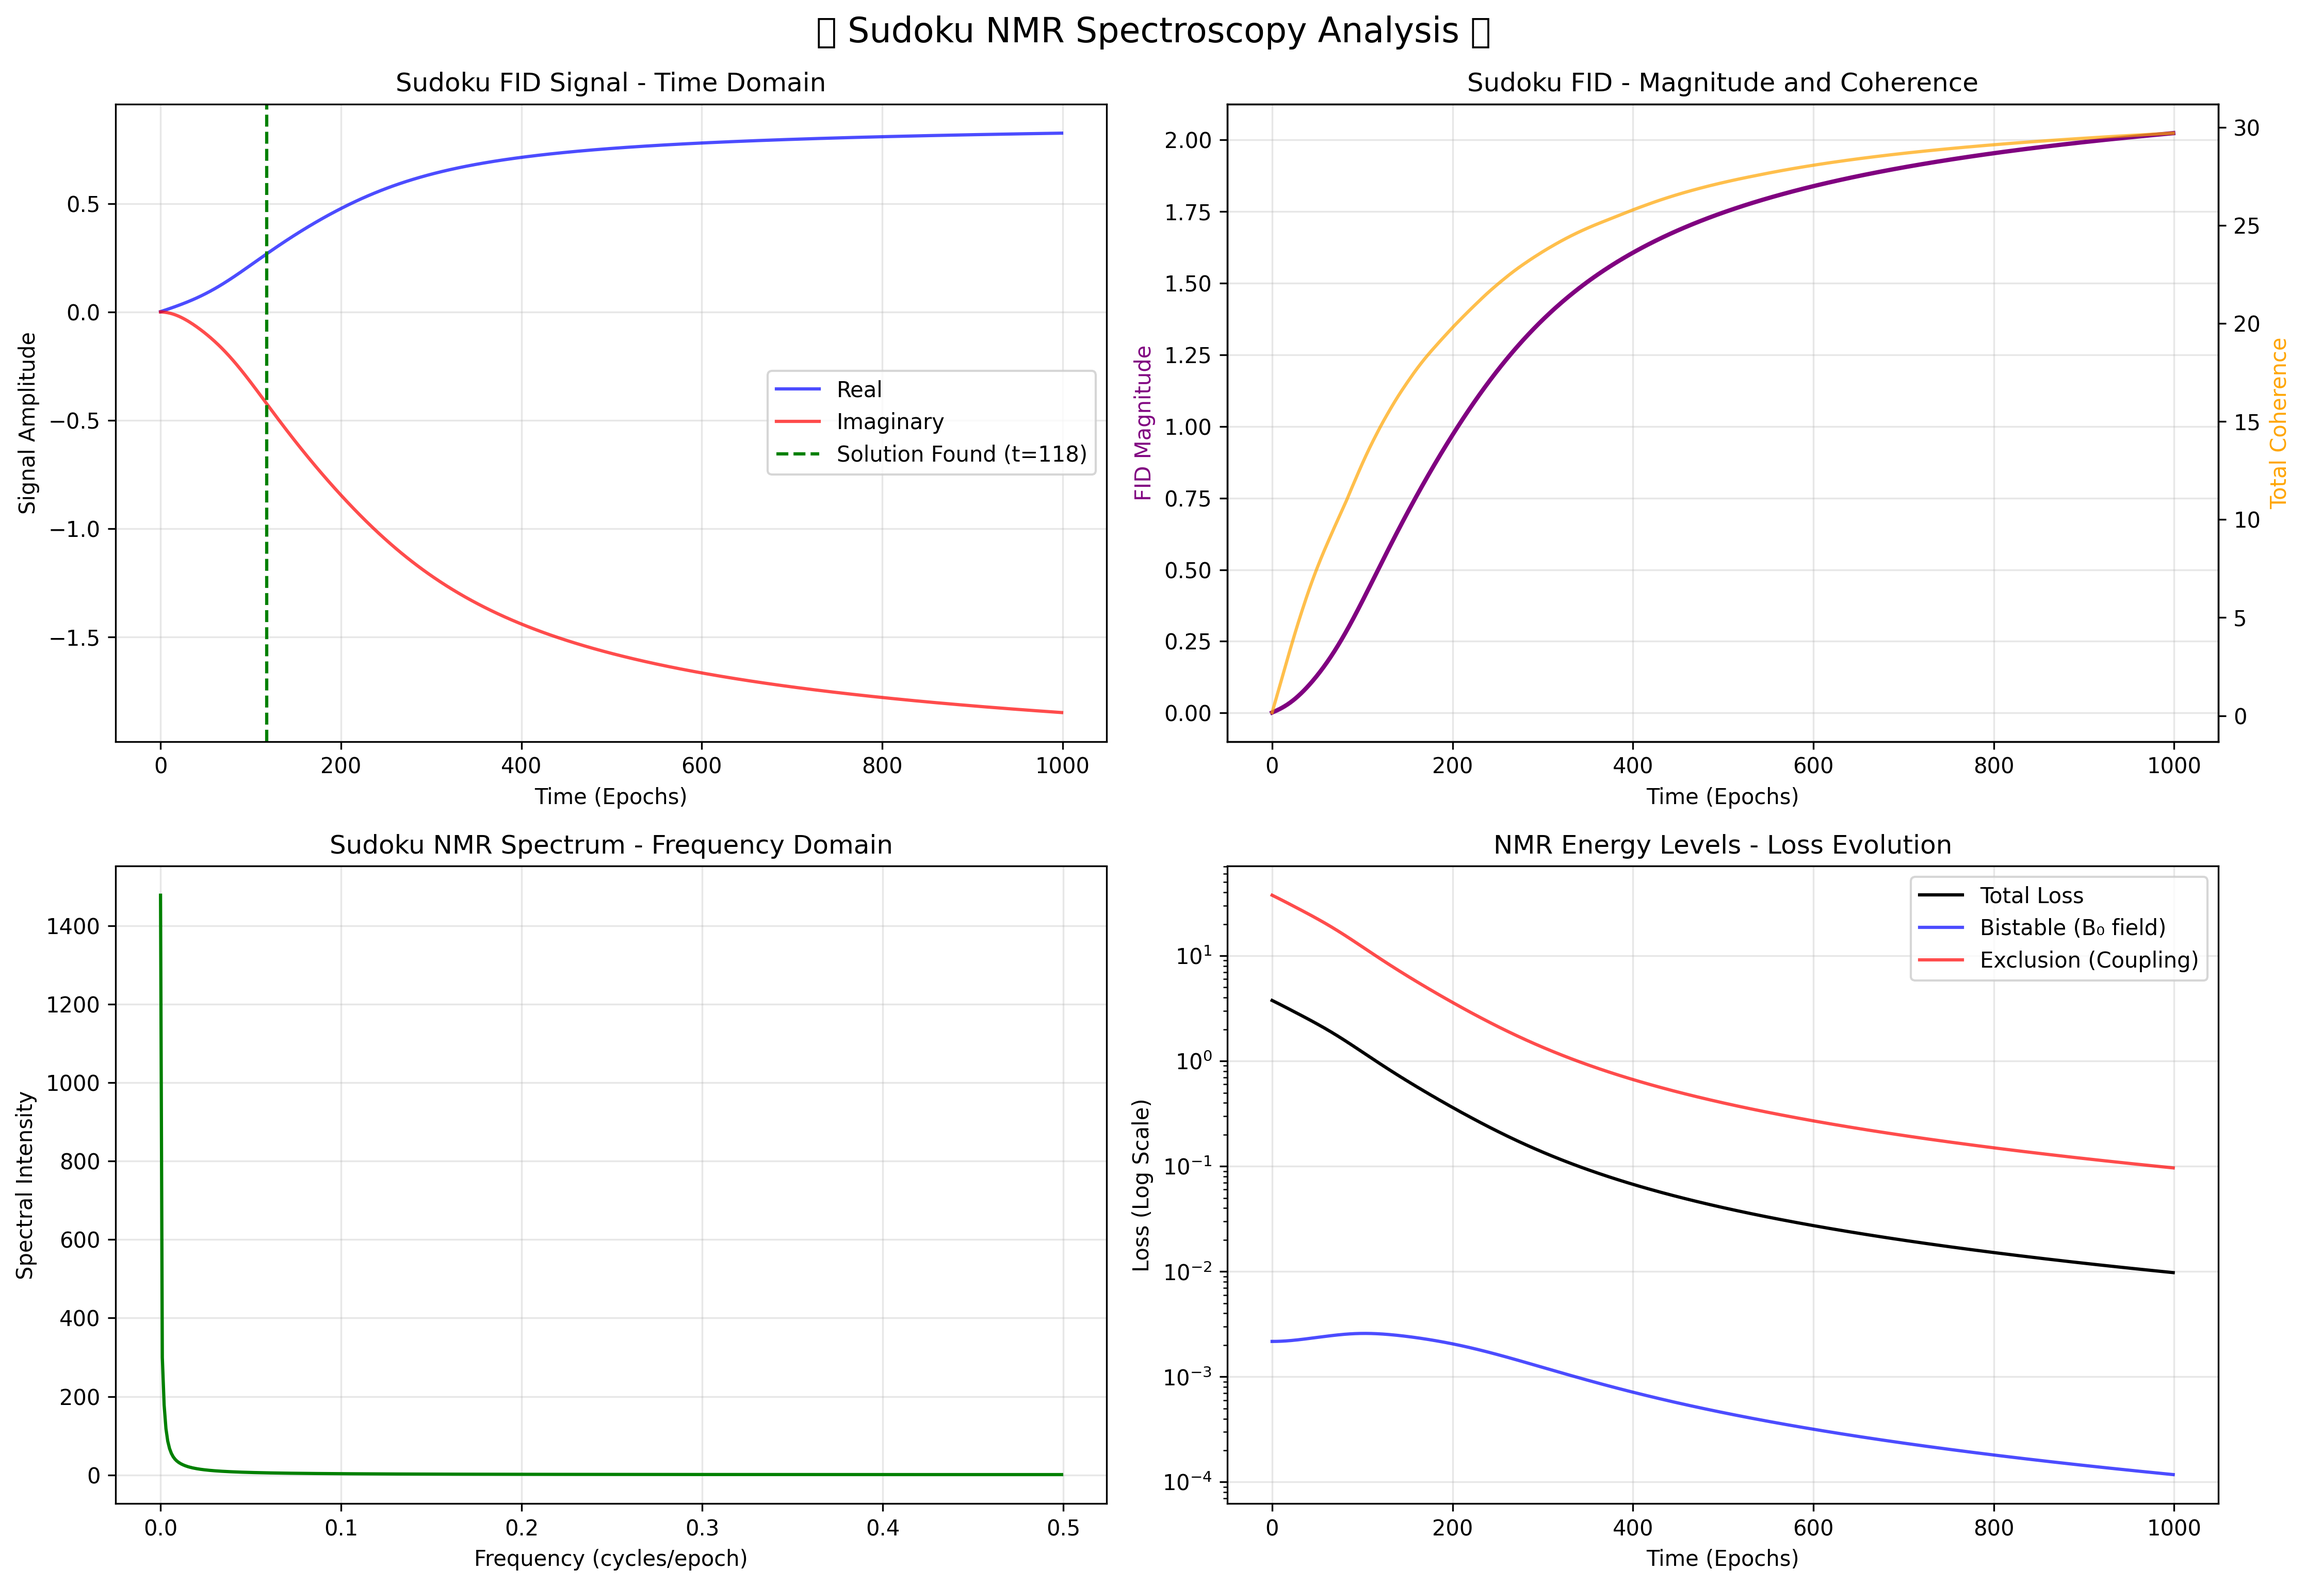
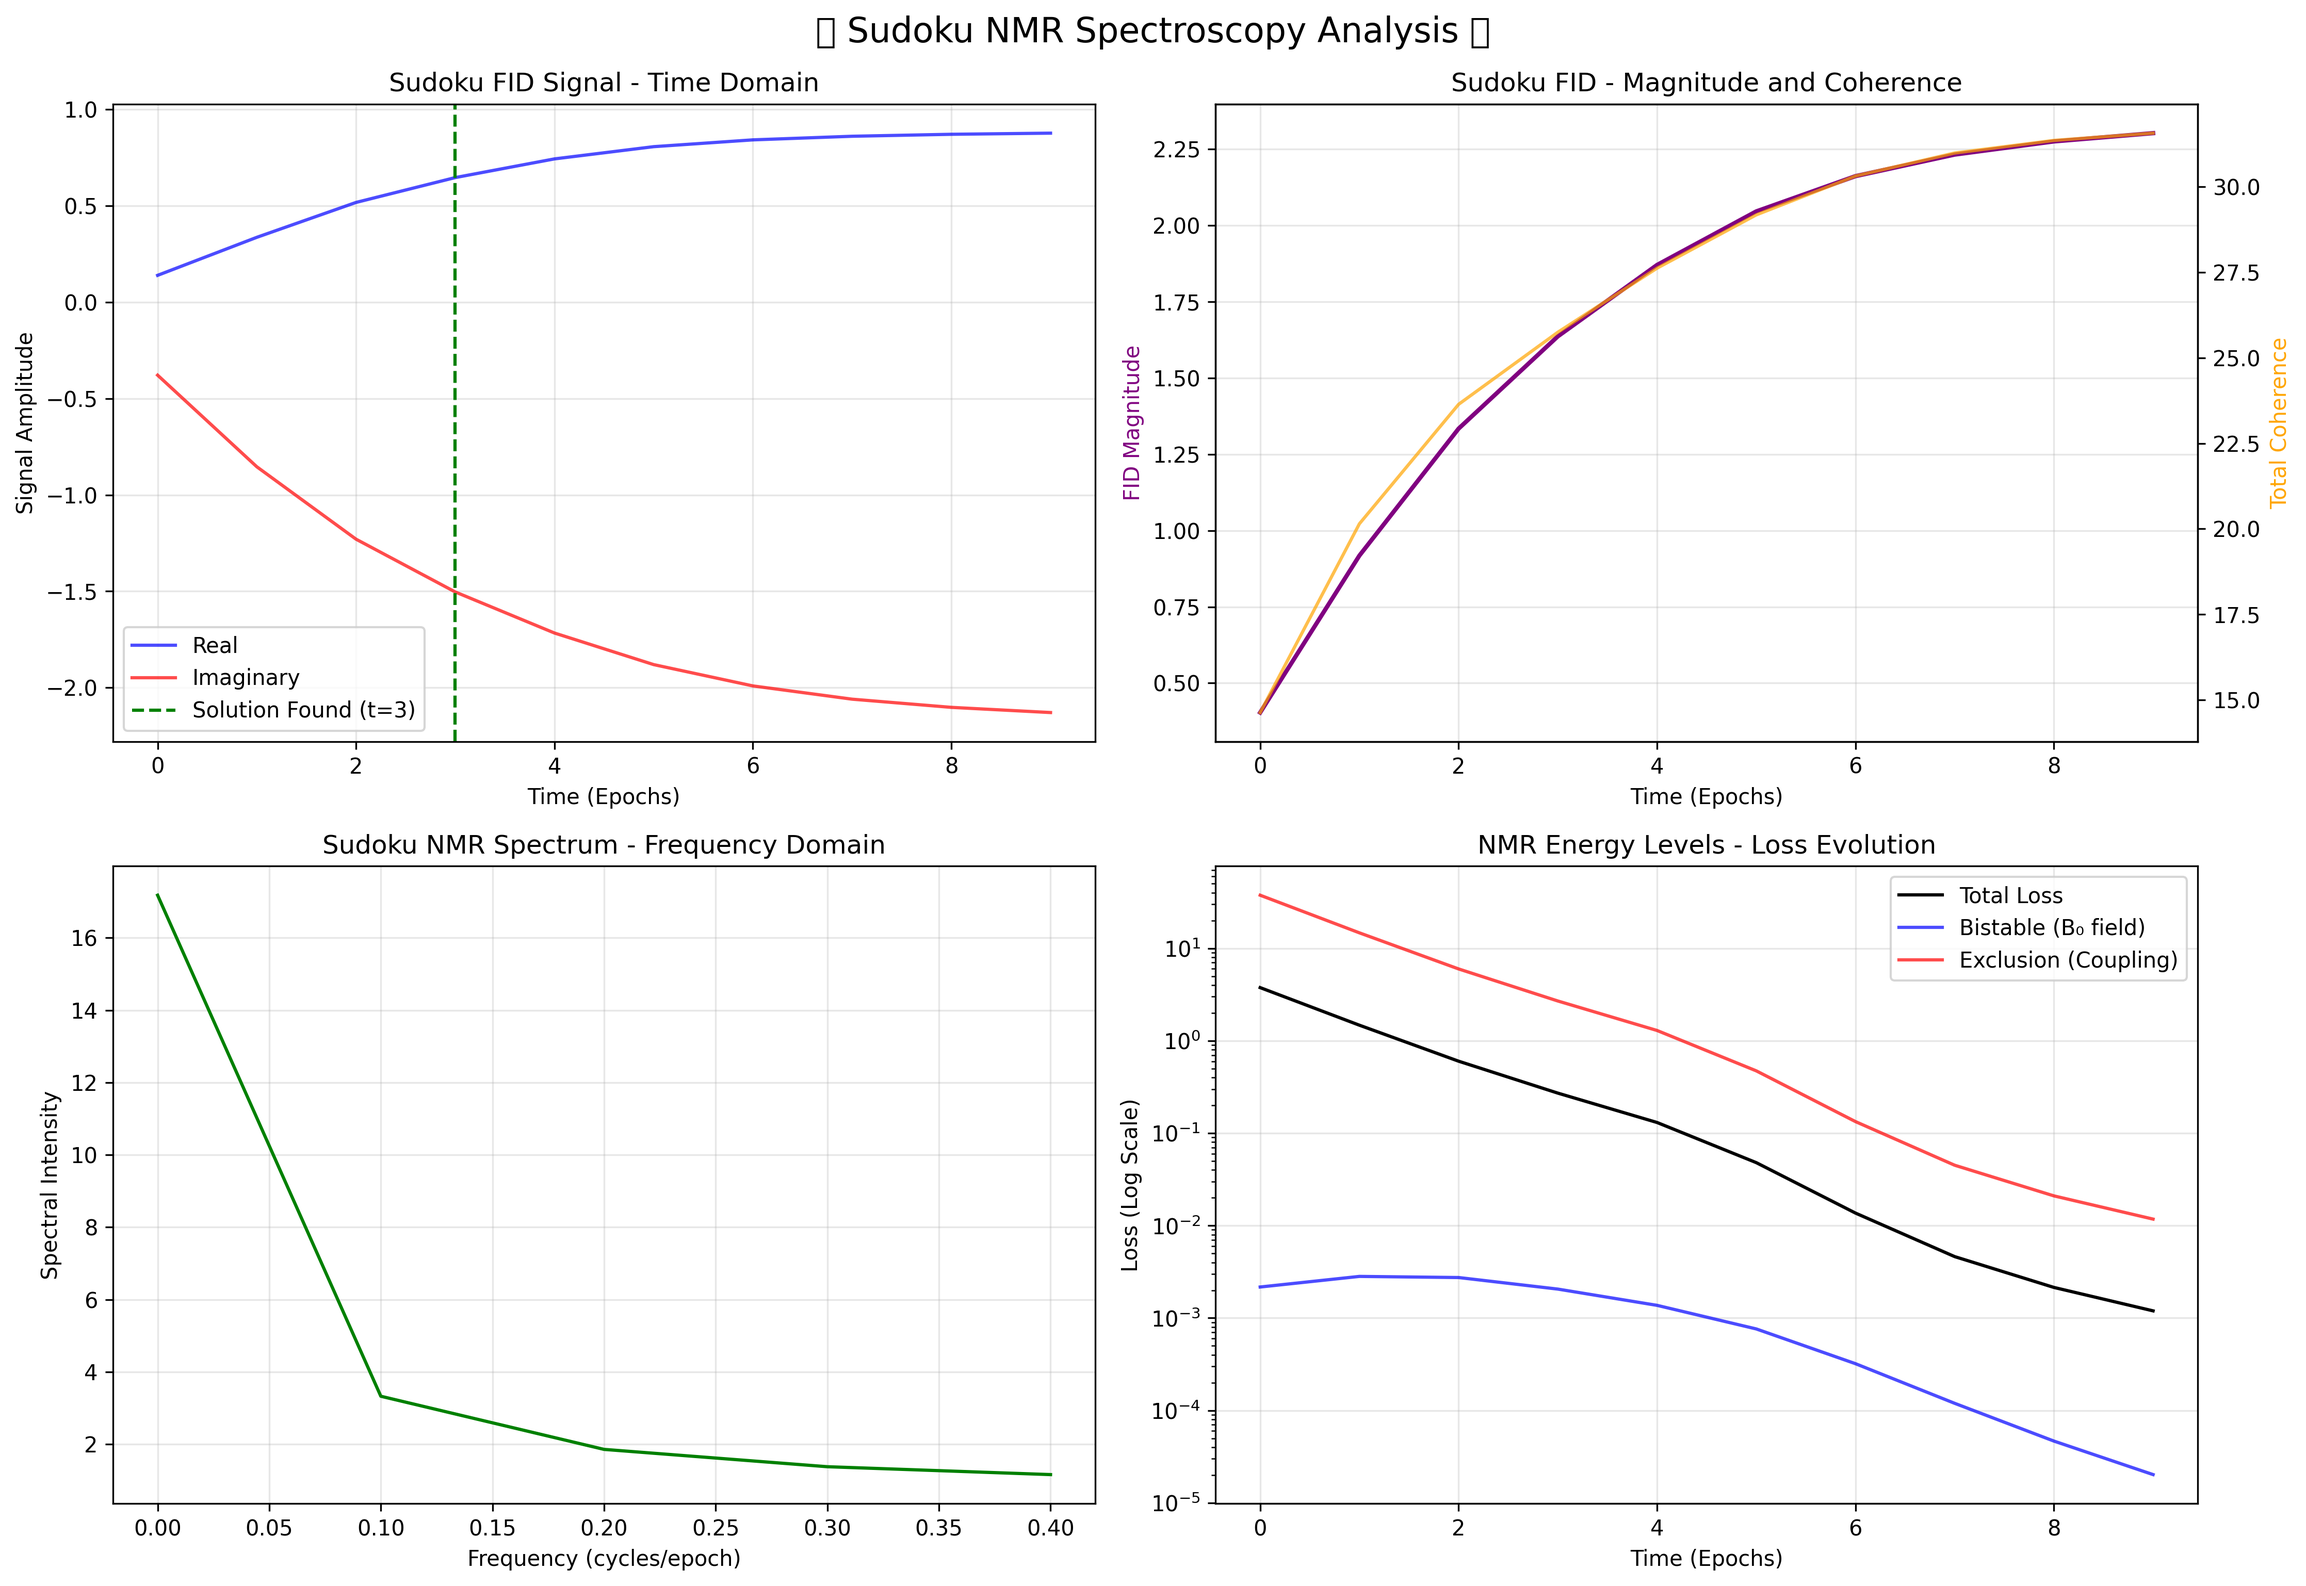
Hyperparameter tuning

diff --git a/backprop_solve.py b/backprop_solve.py
@@ -158,11 +158,11 @@ model = SudokuSolver(unsolved_grid)
 bistable_loss = BistableLoss()
 exclusion_loss = ExclusionLoss()
 
-# Optimizer
-optimizer = optim.Adam(model.parameters(), lr=0.01)
+# Optimizer (Critically damped)
+optimizer = optim.Adam(model.parameters(), lr=1.0)
 
 # FID recording
-num_epochs = 1000
+num_epochs = 10
 fid_data = {
     "epoch": [],
     "total_coherence": [],
